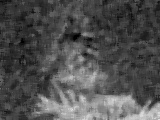
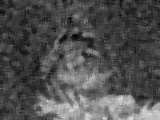
fix bilateral_filter

diff --git a/dip2_py/dip2.py b/dip2_py/dip2.py
@@ -122,7 +122,7 @@ def bilateral_filter(src: np.ndarray, k_size: int, sigma_spatial: float, sigma_r
     for y in range(k_size):
         for x in range(k_size):
             distances[y,x] = (x-kernel_center)**2 + (y-kernel_center)**2
-    spatial_kernel = np.exp(-distances/(2*sigma_spatial**2))
+    spatial_kernel = (1/(2*np.pi*sigma_spatial**2))* np.exp(-distances/(2*sigma_spatial**2))
 
     # iterate over image
     for y in range(height):
@@ -132,11 +132,11 @@ def bilateral_filter(src: np.ndarray, k_size: int, sigma_spatial: float, sigma_r
             # radiometric kernel
             center_pix = crapped[kernel_center, kernel_center]
             diff_intensity = (crapped - center_pix)**2
-            radiometric_kernel = np.exp(-diff_intensity/(2*sigma_radiometric**2))
+            radiometric_kernel = (1/(2*np.pi*sigma_radiometric**2))*np.exp(-diff_intensity/(2*sigma_radiometric**2))
 
             # combine kernels
             kernel = spatial_kernel*radiometric_kernel
-            kernel /= kernel.sum() #normalization
+            kernel /= kernel.sum()
             filtered_img[y,x] = spatial_convolution(crapped, kernel)
 
     return np.array(filtered_img, copy=True)
@@ -223,7 +223,6 @@ def denoise_image(
     Denoising, with parameters specifically tweaked to the supported noise types.
     """
     # TO DO !!
-
     if noise_reduction_algorithm is NoiseReductionAlgorithm.NR_MOVING_AVERAGE_FILTER:
         if noise_type is NoiseType.NOISE_TYPE_1:
             return average_filter(src, 3)
@@ -240,9 +239,9 @@ def denoise_image(
 
     if noise_reduction_algorithm is NoiseReductionAlgorithm.NR_BILATERAL_FILTER:
         if noise_type is NoiseType.NOISE_TYPE_1:
-            return bilateral_filter(src, 3, 1.0, 1.0)
+            return bilateral_filter(src, 3, 2.0, 125.0)
         if noise_type is NoiseType.NOISE_TYPE_2:
-            return bilateral_filter(src, 3, 1.0, 1.0)
+            return bilateral_filter(src, 3, 2.0, 125.0)
         raise ValueError("Unhandled noise type!")
 
     if noise_reduction_algorithm is NoiseReductionAlgorithm.NR_NLM_FILTER:
